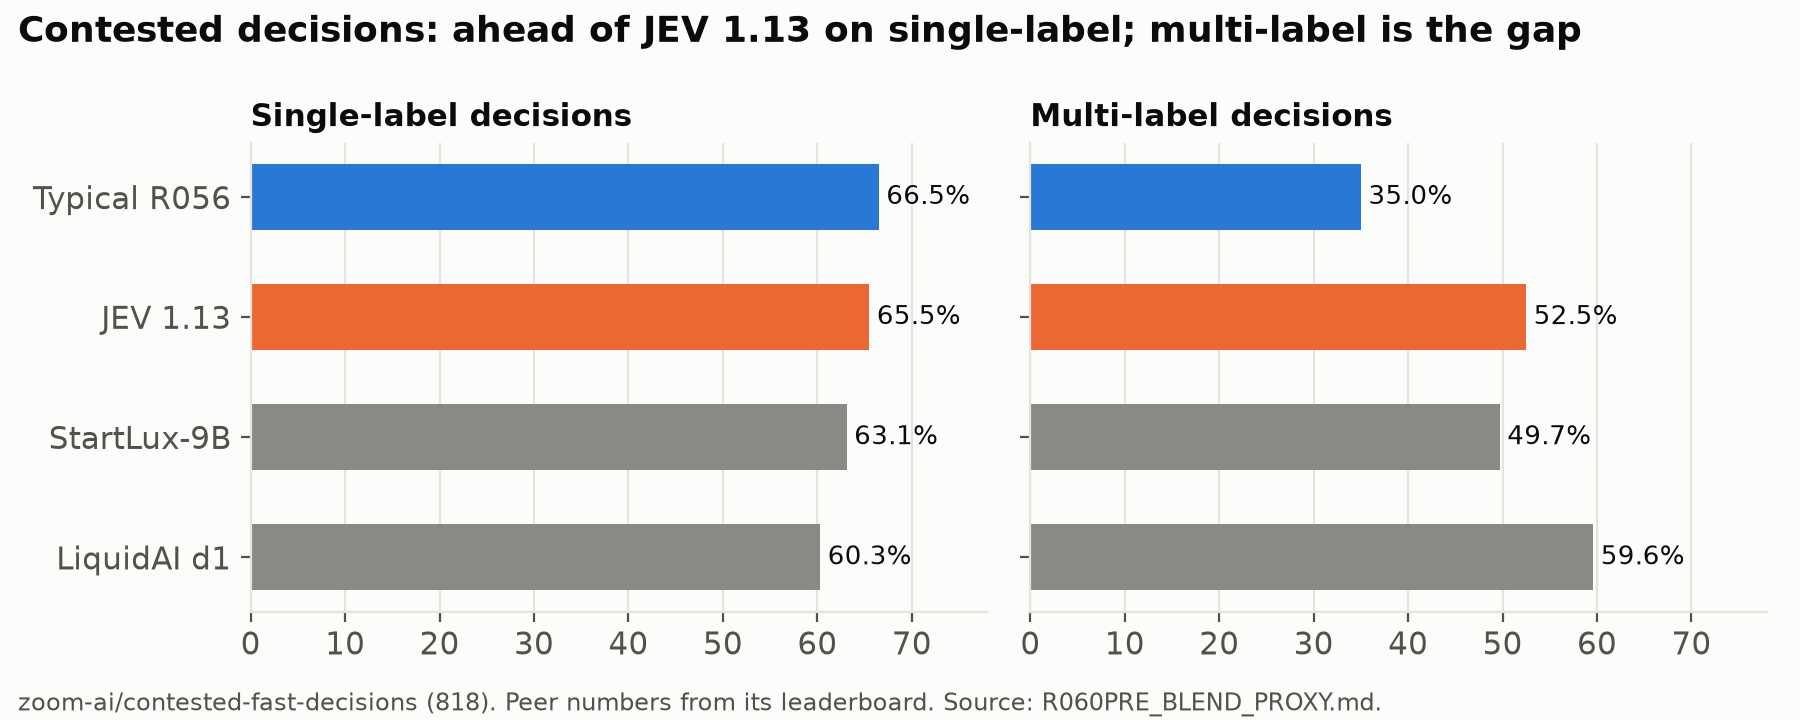
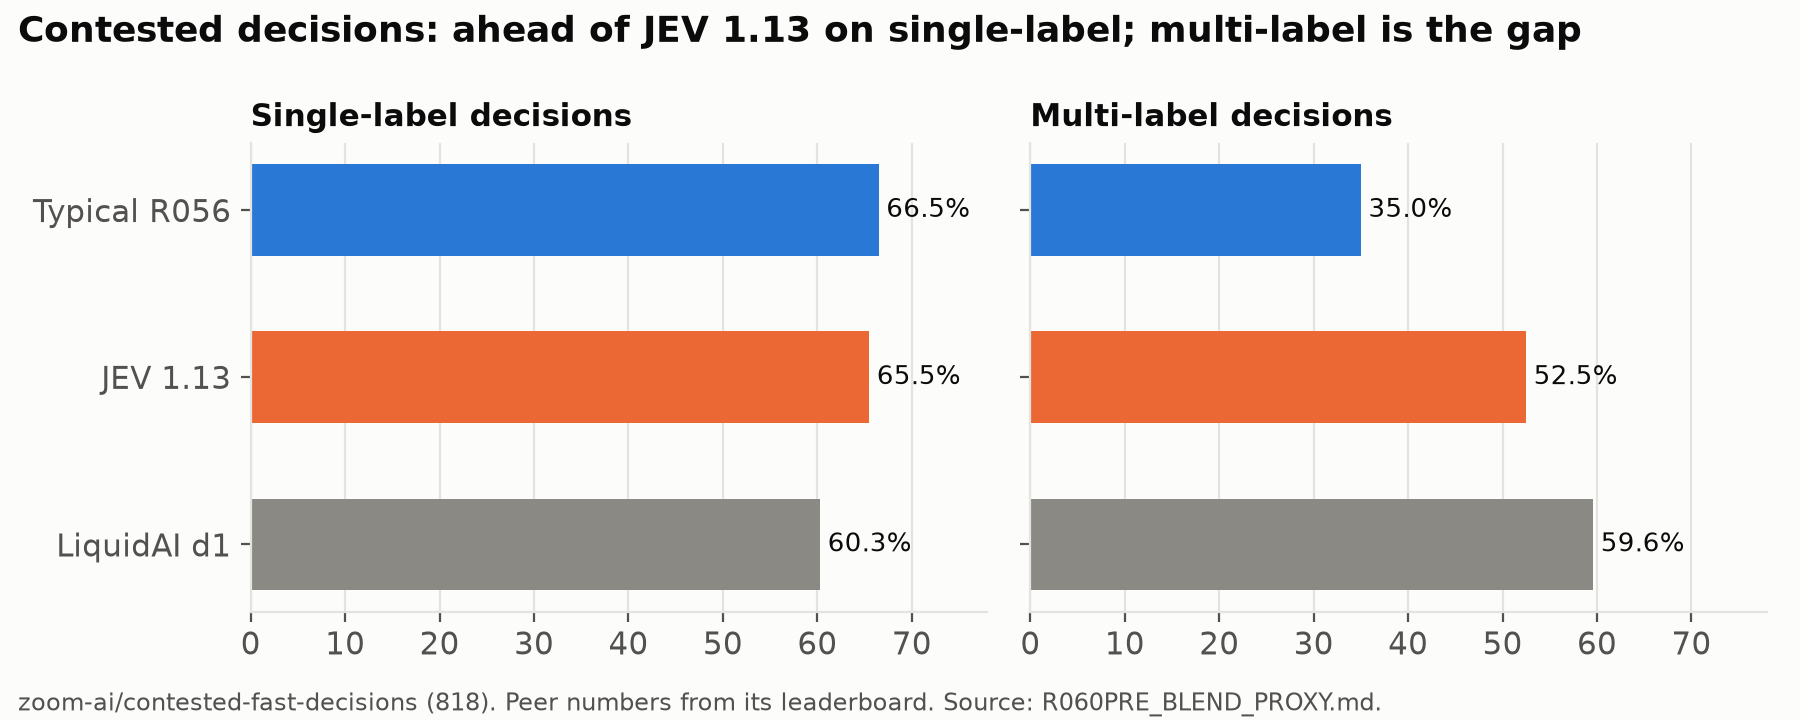
Showcase: drop StartLux from Hebrew and contested charts

diff --git a/scripts/showcase_plots.py b/scripts/showcase_plots.py
@@ -73,7 +73,7 @@ def wf_per_workflow():
 
 
 def hebrew_peers():
-    models = [("StartLux-9B", (.878, .874, .916), GRAY), ("torchcast-12b", (.865, .865, .899), GRAY),
+    models = [("torchcast-12b", (.865, .865, .899), GRAY),
               ("Winnow-12B", (.865, .843, .840), GRAY), ("Frozen Gemma base", (.852, .835, .815), GRAY),
               ("Typical R056 (λ=.5)", (.852, .843, .899), BLUE), ("Typical R062 (Hebrew)", (.852, .870, .840), BLUE),
               ("Clef-flash", (.774, .752, .782), GRAY)]
@@ -90,7 +90,7 @@ def hebrew_peers():
         ax.grid(axis="y", visible=False)
         ax.invert_yaxis() if j == 0 else None
     axes[0].set_yticks(range(len(models)), [m[0] for m in models])
-    fig.suptitle("Hebrew, 9–14B decision models: near StartLux on mixed (.870 vs .874), behind on pure Hebrew",
+    fig.suptitle("Hebrew decisions: Typical leads mixed-language (.870), ties native (.899), trails on translated",
                  x=.01, ha="left", fontsize=12.5, fontweight="semibold", color=INK)
     finish(fig, "03_hebrew_peers", "Hebrew JevBench v0 (eval-only; 230/230/119 items). Native labels are Claude-consensus. Source: hebrew/R062_RESULTS.md.")
 
@@ -116,7 +116,7 @@ def blend_tradeoff():
 
 def contested():
     rows = [("Typical R056", 66.5, 35.0, BLUE), ("JEV 1.13", 65.5, 52.5, ORANGE),
-            ("StartLux-9B", 63.1, 49.7, GRAY), ("LiquidAI d1", 60.3, 59.6, GRAY)]
+            ("LiquidAI d1", 60.3, 59.6, GRAY)]
     fig, axes = plt.subplots(1, 2, figsize=(9, 3.6), sharey=True)
     for ax, j, title in ((axes[0], 1, "Single-label decisions"), (axes[1], 2, "Multi-label decisions")):
         ax.barh(range(len(rows)), [r[j] for r in rows], color=[r[3] for r in rows], height=.55)
